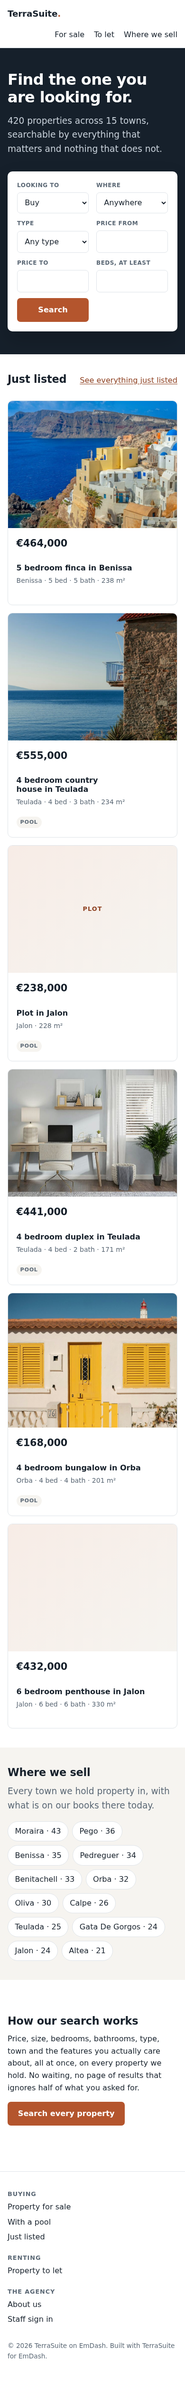
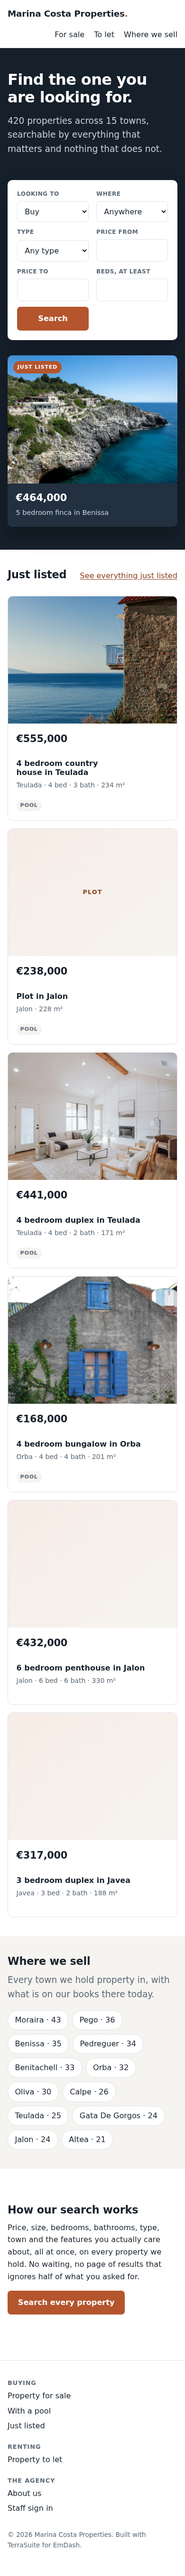
Packs by subject, a hero that uses the width, and readable filters
Photographs are dealt from packs named for what they SHOW, not for the
region they came from. A folder called "mediterranean" holds villages,
harbours, restaurants and the Greek islands as well as houses, so a
finca in Benissa was illustrated with Santorini and a bungalow in Orba
with a harbour full of boats. The loader now reads one sub-folder per
subject - homes, interiors, towns - and maps property type to pack, so a
flat gets a room and a villa gets its outside. Sorting the 120
photographs took five contact sheets and an hour of looking: nothing in
a filename can tell a villa from the village it stands in.

"rejected" is skipped rather than loaded, so what curation threw out
does not end up in the agency's media library.

The hero heading is a few words wide, so on a wide screen the right half
was empty navy. It holds the newest property now, and the search moves
above it on a phone because that is what somebody came to use.

The town and type list boxes carry the longest labels on the form and in
a 9rem column were cut off mid-word - "Commercial (40" - so they take
two columns each.

diff --git a/src/styles/site.css b/src/styles/site.css
@@ -105,6 +105,51 @@ img { max-width: 100%; height: auto; display: block; }
 .hero h1 { max-width: 16ch; }
 .hero p { color: #c9d2db; max-width: 46ch; font-size: 1.15em; }
 
+/* A heading is only ever a few words wide, so on a wide screen the right half
+   of the hero was empty navy. It holds the newest property instead. The order
+   below the breakpoint puts the search above that photograph: somebody on a
+   phone came to search, not to look at one house. */
+.hero__inner { display: grid; gap: 2rem; }
+.hero__copy { order: 1; }
+.hero__search { order: 2; }
+.hero__feature { order: 3; }
+
+.hero__feature {
+	display: block; text-decoration: none; color: #fff;
+	background: #223040; border-radius: var(--radius); overflow: hidden;
+	box-shadow: 0 18px 40px rgb(0 0 0 / 0.3);
+	transition: transform 0.15s ease;
+}
+.hero__feature:hover, .hero__feature:focus-visible { transform: translateY(-2px); }
+.hero__feature-shot {
+	position: relative; display: grid; place-items: center;
+	aspect-ratio: 4 / 3;
+	background: linear-gradient(140deg, var(--accent-soft), var(--sand));
+	color: var(--accent-dark); font-size: 0.8rem; letter-spacing: 0.08em;
+	text-transform: uppercase; font-weight: 600;
+}
+.hero__feature-shot img { width: 100%; height: 100%; object-fit: cover; }
+.hero__feature-flag {
+	position: absolute; top: 0.75rem; left: 0.75rem;
+	background: var(--accent); color: #fff;
+	font-size: 0.7rem; font-weight: 700; letter-spacing: 0.06em;
+	text-transform: uppercase; padding: 0.25rem 0.55rem; border-radius: 999px;
+}
+.hero__feature-meta { display: grid; gap: 0.15rem; padding: 0.9rem 1.1rem 1.1rem; }
+.hero__feature-meta strong { font-size: 1.3rem; letter-spacing: -0.01em; }
+.hero__feature-meta span { color: #c9d2db; font-size: 0.9rem; }
+.hero__feature:hover .hero__feature-meta strong { color: var(--accent); }
+
+@media (min-width: 62rem) {
+	.hero__inner {
+		grid-template-columns: minmax(0, 1fr) 21rem;
+		column-gap: 3rem; row-gap: 2.5rem;
+	}
+	.hero__copy { order: 0; grid-column: 1; grid-row: 1; align-self: center; }
+	.hero__feature { order: 0; grid-column: 2; grid-row: 1; }
+	.hero__search { order: 0; grid-column: 1 / -1; grid-row: 2; }
+}
+
 /* ------------------------------------------------------------------ forms */
 
 .search {
@@ -117,6 +162,13 @@ img { max-width: 100%; height: auto; display: block; }
 .search--inline { box-shadow: none; border: 1px solid var(--line); background: var(--sand); }
 
 .field { display: grid; gap: 0.3rem; min-width: 0; }
+
+/* The town and type list boxes carry the longest labels on the form - a name
+   and a count, "Gata De Gorgos (24)" - and in a 9rem column they were cut off
+   mid-word. Two columns each, and they fit. */
+.field--wide { grid-column: span 2; }
+@media (max-width: 40rem) { .field--wide { grid-column: span 1; } }
+.field--wide select[multiple] { overflow-x: hidden; text-overflow: ellipsis; }
 .field > span { font-size: 0.75rem; font-weight: 600; text-transform: uppercase; letter-spacing: 0.04em; color: var(--ink-soft); }
 
 input[type="number"], input[type="text"], select {
